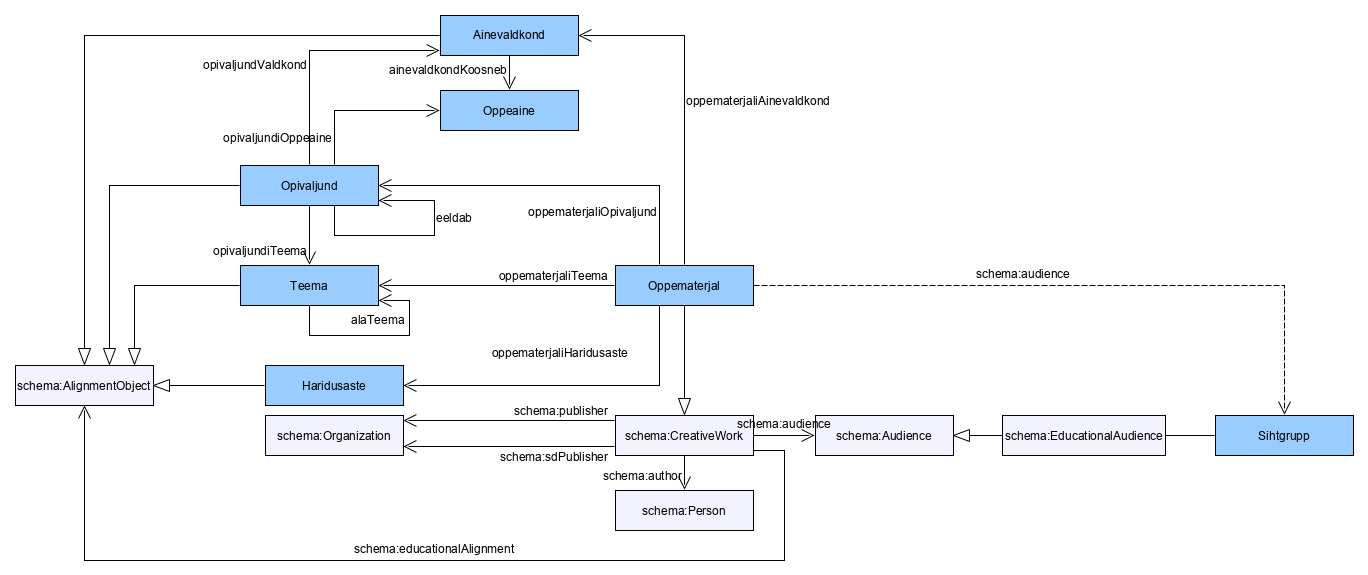
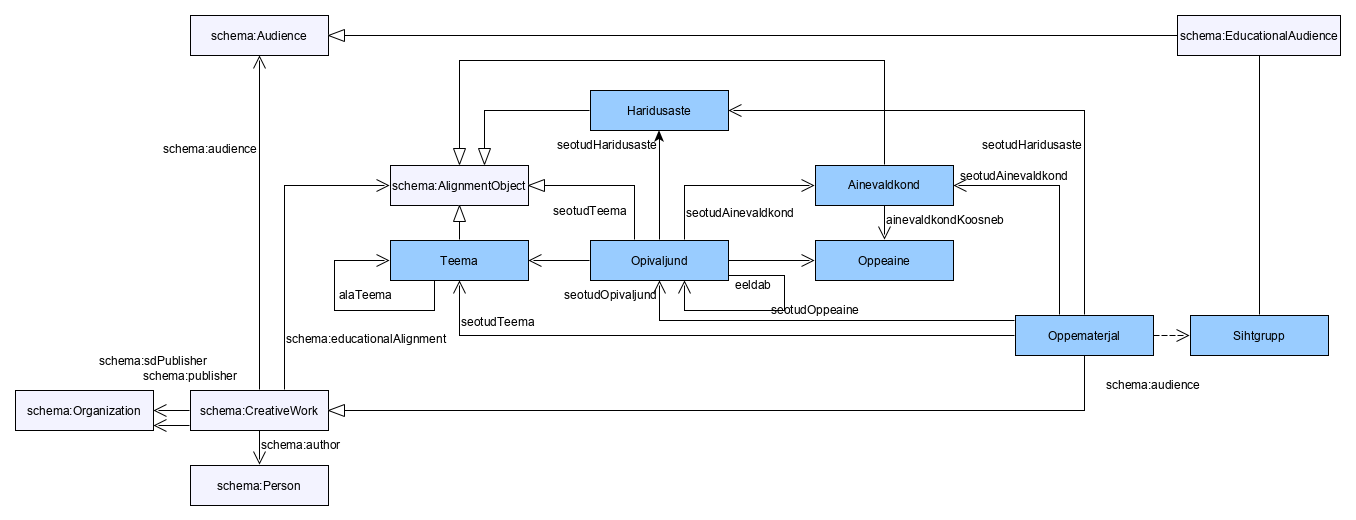
Unified usage of some properties.

diff --git a/ontologies/haridus.html b/ontologies/haridus.html
@@ -103,8 +103,7 @@ j=d.createElement(s),dl=l!='dataLayer'?'&l='+l:'';j.async=true;j.src=
       .historyList { font-size: 0.9em; }
 
       #footer { margin-top: 4em; font-size: 0.8em; font-style: italic; text-align: right; }
-    </style></head>
-	<body>
+    </style></head><body>
 <noscript><iframe src="https://www.googletagmanager.com/ns.html?id=GTM-MZ43MTQ"
 height="0" width="0" style="display:none;visibility:hidden"></iframe></noscript>
 	<h1>Hariduse ontoloogia</h1><dl class="doc-info"><dt>See versioon</dt><dd><a href="https://schema.edu.ee/">https://schema.edu.ee/</a></dd><dt>Värskeim versioon</dt><dd><a href="https://schema.edu.ee/">https://schema.edu.ee/</a></dd></dl><h2 id="toc">Sisukord</h2><ul class="toc"><li><a href="#sec-introduction">Sissejuhatus</a></li><li><a href="#sec-terms">Sõnastiku kokkuvõte</a></li><li><a href="#sec-classes">Klassid</a></li><li><a href="#sec-properties">Omadused</a></li></ul><h2 id="sec-introduction">Sissejuhatus</h2>
@@ -121,7 +120,7 @@ height="0" width="0" style="display:none;visibility:hidden"></iframe></noscript>
       28 klassi
         
       ja
-      16 omadust.
+      14 omadust.
         </p><table><thead><tr><th>Termini nimi</th><th>Liik</th><th>Definitsioon</th></tr></thead><tbody><tr><td><a href="#term-Ainekava" title="https://schema.edu.ee/Ainekava">Ainekava</a></td><td><em>klass</em></td><td>Dokument, mis hõlmab ühe aine õppe-eesmärgid, õppesisu, metoodika ja hindamise põhimõtted.</td></tr><tr><td><a href="#term-Ainevaldkond" title="https://schema.edu.ee/Ainevaldkond">Ainevaldkond</a></td><td><em>klass</em></td><td>Lähedase eesmärgiseade ja õppesisuga õppeained moodustavad ainevaldkonna. Ainevaldkonnad on järgmised:
   1) keel ja kirjandus;
   2) võõrkeeled;
@@ -142,7 +141,7 @@ Kooliastmed on:
 Põhikooli kooliastmed on:
 1) I kooliaste – 1.–3. klass;
 2) II kooliaste – 4.–6. klass;
-3) III kooliaste – 7.–9. klass.</td></tr><tr><td><a href="#term-onEelduseks" title="https://schema.edu.ee/onEelduseks">onEelduseks</a></td><td><em>omadus</em></td><td>Õpiväljund on eelduseks teis(t)ele õpiväljundi(te)le.</td></tr><tr><td><a href="#term-opivaljundiOppeaine" title="https://schema.edu.ee/opivaljundiOppeaine">opivaljundiOppeaine</a></td><td><em>omadus</em></td><td>Õpiväljund ei pea olema seotud ühegi õppeainega ja võib olla seotud mitme õppeainega.</td></tr><tr><td><a href="#term-opivaljundiTeema" title="https://schema.edu.ee/opivaljundiTeema">opivaljundiTeema</a></td><td><em>omadus</em></td><td>Õpiväljund ei pea olema ühegi teemaga, kuid teema raames käsitletakse vähemalt ühte õpiväljundit.</td></tr><tr><td><a href="#term-opivaljundiValdkond" title="https://schema.edu.ee/opivaljundiValdkond">opivaljundiValdkond</a></td><td><em>omadus</em></td><td>Õpiväljundit võidakse kasutada erinevates ainevaldkondades riikliku õppekava kontekstis. Õpiväljund ei pea olema seotud ainevaldkonnaga.</td></tr><tr><td><a href="#term-oppematerjaliAinevaldkond" title="https://schema.edu.ee/oppematerjaliAinevaldkond">oppematerjaliAinevaldkond</a></td><td><em>omadus</em></td><td>Õppematerjal võib olla seotud ainevaldkondadega.</td></tr><tr><td><a href="#term-oppematerjaliHaridusaste" title="https://schema.edu.ee/oppematerjaliHaridusaste">oppematerjaliHaridusaste</a></td><td><em>omadus</em></td><td>Õppematerjal on mõeldud konkreetsele haridusastmele.</td></tr><tr><td><a href="#term-oppematerjaliOpivaljund" title="https://schema.edu.ee/oppematerjaliOpivaljund">oppematerjaliOpivaljund</a></td><td><em>omadus</em></td><td>Õppematerjal on seotud konkreetsete õpiväljundite saavutamisega. Minimaalselt on õppematerjaliga seotud üks õpiväljund.</td></tr><tr><td><a href="#term-oppematerjaliTeema" title="https://schema.edu.ee/oppematerjaliTeema">oppematerjaliTeema</a></td><td><em>omadus</em></td><td>Õppematerjal võib olla seotud teemadega.</td></tr><tr><td><a href="#term-testKoosneb" title="https://schema.edu.ee/testKoosneb">testKoosneb</a></td><td><em>omadus</em></td><td>Test koosneb vähemalt ühest ülesandest.</td></tr><tr><td><a href="#term-ulesanneKoosneb" title="https://schema.edu.ee/ulesanneKoosneb">ulesanneKoosneb</a></td><td><em>omadus</em></td><td>Ülesanne koosneb vähemalt ühest üksikküsimusest.</td></tr><tr><td><a href="#term-vanuseaste" title="https://schema.edu.ee/vanuseaste">vanuseaste</a></td><td><em>omadus</em></td><td>Vanuse teatav alajaotus; selles vanuses inimesed.</td></tr></tbody></table><h2 id="sec-classes">Klassid</h2><div class="class"><h3 id="term-Ainekava">Klass: Ainekava</h3><div class="description"><p class="comment">Dokument, mis hõlmab ühe aine õppe-eesmärgid, õppesisu, metoodika ja hindamise põhimõtted.</p><table class="properties"><tbody><tr><th>URI:</th><td>https://schema.edu.ee/Ainekava</td></tr><tr><th>Pealkiri:</th><td>Ainekava<span class="lang">@et</span></td></tr><tr><th>Ülemklass:</th><td><a href="#term-Oppekava" title="https://schema.edu.ee/Oppekava">https://schema.edu.ee/Oppekava</a></td></tr></tbody></table><h4>Versiooniajalugu</h4><ul class="historyList"><li><span class="date">2020-02-14</span>
+3) III kooliaste – 7.–9. klass.</td></tr><tr><td><a href="#term-onEelduseks" title="https://schema.edu.ee/onEelduseks">onEelduseks</a></td><td><em>omadus</em></td><td>Õpiväljund on eelduseks teis(t)ele õpiväljundi(te)le.</td></tr><tr><td><a href="#term-seotudAinevaldkond" title="https://schema.edu.ee/seotudAinevaldkond">seotudAinevaldkond</a></td><td><em>omadus</em></td><td>Õpiväljundit võidakse kasutada erinevates ainevaldkondades riikliku õppekava kontekstis. Õpiväljund ei pea olema seotud ainevaldkonnaga. Õppematerjal võib olla seotud ainevaldkondadega.</td></tr><tr><td><a href="#term-seotudHaridusaste" title="https://schema.edu.ee/seotudHaridusaste">seotudHaridusaste</a></td><td><em>omadus</em></td><td>Õppematerjal on mõeldud või õpiväljund on planeeritud konkreetsele haridusastmele.</td></tr><tr><td><a href="#term-seotudOpivaljund" title="https://schema.edu.ee/seotudOpivaljund">seotudOpivaljund</a></td><td><em>omadus</em></td><td>Õpiväljundit võidakse kasutada erinevates ainevaldkondades riikliku õppekava kontekstis. Õpiväljund ei pea olema seotud ainevaldkonnaga. Õppematerjal on seotud konkreetsete õpiväljundite saavutamisega. Minimaalselt on õppematerjaliga seotud üks õpiväljund.</td></tr><tr><td><a href="#term-seotudOppeaine" title="https://schema.edu.ee/seotudOppeaine">seotudOppeaine</a></td><td><em>omadus</em></td><td>Õpiväljund ei pea olema seotud ühegi õppeainega ja võib olla seotud mitme õppeainega.</td></tr><tr><td><a href="#term-seotudTeema" title="https://schema.edu.ee/seotudTeema">seotudTeema</a></td><td><em>omadus</em></td><td>Õpiväljund ei pea olema ühegi teemaga, kuid teema raames käsitletakse vähemalt ühte õpiväljundit. Õppematerjal võib olla seotud teemadega.</td></tr><tr><td><a href="#term-testKoosneb" title="https://schema.edu.ee/testKoosneb">testKoosneb</a></td><td><em>omadus</em></td><td>Test koosneb vähemalt ühest ülesandest.</td></tr><tr><td><a href="#term-ulesanneKoosneb" title="https://schema.edu.ee/ulesanneKoosneb">ulesanneKoosneb</a></td><td><em>omadus</em></td><td>Ülesanne koosneb vähemalt ühest üksikküsimusest.</td></tr><tr><td><a href="#term-vanuseaste" title="https://schema.edu.ee/vanuseaste">vanuseaste</a></td><td><em>omadus</em></td><td>Vanuse teatav alajaotus; selles vanuses inimesed.</td></tr></tbody></table><h2 id="sec-classes">Klassid</h2><div class="class"><h3 id="term-Ainekava">Klass: Ainekava</h3><div class="description"><p class="comment">Dokument, mis hõlmab ühe aine õppe-eesmärgid, õppesisu, metoodika ja hindamise põhimõtted.</p><table class="properties"><tbody><tr><th>URI:</th><td>https://schema.edu.ee/Ainekava</td></tr><tr><th>Pealkiri:</th><td>Ainekava<span class="lang">@et</span></td></tr><tr><th>Ülemklass:</th><td><a href="#term-Oppekava" title="https://schema.edu.ee/Oppekava">https://schema.edu.ee/Oppekava</a></td></tr></tbody></table><h4>Versiooniajalugu</h4><ul class="historyList"><li><span class="date">2020-02-14</span>
               - esmakordselt lisatud
             </li></ul></div></div><div class="class"><h3 id="term-Ainevaldkond">Klass: Ainevaldkond</h3><div class="description"><p class="comment">Lähedase eesmärgiseade ja õppesisuga õppeained moodustavad ainevaldkonna. Ainevaldkonnad on järgmised:
   1) keel ja kirjandus;
@@ -153,11 +152,11 @@ Põhikooli kooliastmed on:
   6) kunstiained;
   7) kehaline kasvatus.
 
-Ainevaldkonna õppeainete õpetamise peamine eesmärk on vastava valdkonnapädevuse kujundamine. Valdkonnapädevuste kujunemist ning gümnaasiumi õppe- ja kasvatuseesmärkide saavutamist toetavad ainekavades esitatud õpitulemused, lõiming teiste ainevaldkondade õppeainetega ning tunni- ja kooliväline tegevus. NB alignmentType = educationalSubjectArea.</p><table class="properties"><tbody><tr><th>URI:</th><td>https://schema.edu.ee/Ainevaldkond</td></tr><tr><th>Pealkiri:</th><td>Ainevaldkond<span class="lang">@et</span> ja Subject area<span class="lang">@en</span></td></tr><tr><th>Omadused:</th><td><a href="#term-ainevaldkondKoosneb" title="https://schema.edu.ee/ainevaldkondKoosneb">https://schema.edu.ee/ainevaldkondKoosneb</a></td></tr><tr><th>Kasutatud:</th><td><a href="#term-opivaljundiValdkond" title="https://schema.edu.ee/opivaljundiValdkond">https://schema.edu.ee/opivaljundiValdkond</a> ja <a href="#term-oppematerjaliAinevaldkond" title="https://schema.edu.ee/oppematerjaliAinevaldkond">https://schema.edu.ee/oppematerjaliAinevaldkond</a></td></tr><tr><th>Ülemklass:</th><td><a href="https://schema.org/AlignmentObject">https://schema.org/AlignmentObject</a></td></tr></tbody></table><h4>Versiooniajalugu</h4><ul class="historyList"><li><span class="date">2020-02-14</span>
+Ainevaldkonna õppeainete õpetamise peamine eesmärk on vastava valdkonnapädevuse kujundamine. Valdkonnapädevuste kujunemist ning gümnaasiumi õppe- ja kasvatuseesmärkide saavutamist toetavad ainekavades esitatud õpitulemused, lõiming teiste ainevaldkondade õppeainetega ning tunni- ja kooliväline tegevus. NB alignmentType = educationalSubjectArea.</p><table class="properties"><tbody><tr><th>URI:</th><td>https://schema.edu.ee/Ainevaldkond</td></tr><tr><th>Pealkiri:</th><td>Ainevaldkond<span class="lang">@et</span> ja Subject area<span class="lang">@en</span></td></tr><tr><th>Omadused:</th><td><a href="#term-ainevaldkondKoosneb" title="https://schema.edu.ee/ainevaldkondKoosneb">https://schema.edu.ee/ainevaldkondKoosneb</a></td></tr><tr><th>Kasutatud:</th><td><a href="#term-seotudAinevaldkond" title="https://schema.edu.ee/seotudAinevaldkond">https://schema.edu.ee/seotudAinevaldkond</a></td></tr><tr><th>Ülemklass:</th><td><a href="https://schema.org/AlignmentObject">https://schema.org/AlignmentObject</a></td></tr></tbody></table><h4>Versiooniajalugu</h4><ul class="historyList"><li><span class="date">2020-02-14</span>
               - esmakordselt lisatud
             </li></ul></div></div><div class="class"><h3 id="term-AinevaldkonnaPadevus">Klass: AinevaldkonnaPadevus</h3><div class="description"><table class="properties"><tbody><tr><th>URI:</th><td>https://schema.edu.ee/AinevaldkonnaPadevus</td></tr><tr><th>Pealkiri:</th><td>Ainevaldkonna pädevus<span class="lang">@et</span></td></tr><tr><th>Ülemklass:</th><td><a href="#term-Padevus" title="https://schema.edu.ee/Padevus">https://schema.edu.ee/Padevus</a></td></tr></tbody></table><h4>Versiooniajalugu</h4><ul class="historyList"><li><span class="date">2020-02-14</span>
               - esmakordselt lisatud
-            </li></ul></div></div><div class="class"><h3 id="term-Haridusaste">Klass: Haridusaste</h3><div class="description"><p class="comment">Hariduse omandamise järjestikune osa, selle iga (järgnev) osa (nt põhiharidus, keskharidus, kõrgharidus). NB alignmentType = educationalLevel.</p><table class="properties"><tbody><tr><th>URI:</th><td>https://schema.edu.ee/Haridusaste</td></tr><tr><th>Pealkiri:</th><td>Haridusaste<span class="lang">@et</span></td></tr><tr><th>Kasutatud:</th><td><a href="#term-oppematerjaliHaridusaste" title="https://schema.edu.ee/oppematerjaliHaridusaste">https://schema.edu.ee/oppematerjaliHaridusaste</a></td></tr><tr><th>Ülemklass:</th><td><a href="https://schema.org/AlignmentObject">https://schema.org/AlignmentObject</a></td></tr></tbody></table><h4>Versiooniajalugu</h4><ul class="historyList"><li><span class="date">2020-02-20</span>
+            </li></ul></div></div><div class="class"><h3 id="term-Haridusaste">Klass: Haridusaste</h3><div class="description"><p class="comment">Hariduse omandamise järjestikune osa, selle iga (järgnev) osa (nt põhiharidus, keskharidus, kõrgharidus). NB alignmentType = educationalLevel.</p><table class="properties"><tbody><tr><th>URI:</th><td>https://schema.edu.ee/Haridusaste</td></tr><tr><th>Pealkiri:</th><td>Haridusaste<span class="lang">@et</span></td></tr><tr><th>Kasutatud:</th><td><a href="#term-seotudHaridusaste" title="https://schema.edu.ee/seotudHaridusaste">https://schema.edu.ee/seotudHaridusaste</a></td></tr><tr><th>Ülemklass:</th><td><a href="https://schema.org/AlignmentObject">https://schema.org/AlignmentObject</a></td></tr></tbody></table><h4>Versiooniajalugu</h4><ul class="historyList"><li><span class="date">2020-02-20</span>
               - esmakordselt lisatud
             </li></ul></div></div><div class="class"><h3 id="term-Hoiak">Klass: Hoiak</h3><div class="description"><p class="comment">Inimese kalduvus hinnata objektide (näit. isikute, sündmuste, nähtuste) olemust teatud määral soosival või mittesoosival viisil. See hinnang väljendub tavaliselt tunnetusliku (kognitiivse), emotsionaalse (afektiivse) või käitumusliku (konatiivse) reageeringuna.</p><table class="properties"><tbody><tr><th>URI:</th><td>https://schema.edu.ee/Hoiak</td></tr><tr><th>Pealkiri:</th><td>Attitude<span class="lang">@en</span> ja Hoiak<span class="lang">@et</span></td></tr><tr><th>Ülemklass:</th><td><a href="#term-Opivaljund" title="https://schema.edu.ee/Opivaljund">https://schema.edu.ee/Opivaljund</a></td></tr></tbody></table><h4>Versiooniajalugu</h4><ul class="historyList"><li><span class="date">2020-02-14</span>
               - esmakordselt lisatud
@@ -175,15 +174,15 @@ Ainevaldkonna õppeainete õpetamise peamine eesmärk on vastava valdkonnapädev
               - esmakordselt lisatud
             </li></ul></div></div><div class="class"><h3 id="term-Opitulemus">Klass: Opitulemus</h3><div class="description"><p class="comment">Kellegi teadmistele, oskustele, võimetele, töötulemustele antud hinnang, mida väljendatakse numbrites, tähtedes, punktides vm hindamisühikutes. Lihtsustatult, õpitulemus esitab õpiväljundi saavutatuse taset. Eksami või arvestuse sooritus.</p><table class="properties"><tbody><tr><th>URI:</th><td>https://schema.edu.ee/Opitulemus</td></tr><tr><th>Pealkiri:</th><td>Learning assessment<span class="lang">@en</span> ja Õpitulemus<span class="lang">@et</span></td></tr><tr><th>Kasutatud:</th><td><a href="#term-hindabOpitulemust" title="https://schema.edu.ee/hindabOpitulemust">https://schema.edu.ee/hindabOpitulemust</a></td></tr></tbody></table><h4>Versiooniajalugu</h4><ul class="historyList"><li><span class="date">2020-02-14</span>
               - esmakordselt lisatud
-            </li></ul></div></div><div class="class"><h3 id="term-Opivaljund">Klass: Opivaljund</h3><div class="description"><p class="comment">Õppimise tulemusena omandatavad teadmised, oskused ja hoiakud või nende kogumid (pädevused), mille olemasolu ja/või saavutatuse taset on võimalik tõendada ja hinnata. Nt "oskab liita 10 piires". NB alignmentType = teaches.</p><table class="properties"><tbody><tr><th>URI:</th><td>https://schema.edu.ee/Opivaljund</td></tr><tr><th>Pealkiri:</th><td>Learning outcome<span class="lang">@en</span> ja Õpiväljund<span class="lang">@et</span></td></tr><tr><th>Omadused:</th><td><a href="#term-opivaljundiOppeaine" title="https://schema.edu.ee/opivaljundiOppeaine">https://schema.edu.ee/opivaljundiOppeaine</a>, <a href="#term-opivaljundiTeema" title="https://schema.edu.ee/opivaljundiTeema">https://schema.edu.ee/opivaljundiTeema</a>, <a href="#term-opivaljundiValdkond" title="https://schema.edu.ee/opivaljundiValdkond">https://schema.edu.ee/opivaljundiValdkond</a>, <a href="#term-onEelduseks" title="https://schema.edu.ee/onEelduseks">https://schema.edu.ee/onEelduseks</a> ja <a href="#term-eeldab" title="https://schema.edu.ee/eeldab">https://schema.edu.ee/eeldab</a></td></tr><tr><th>Kasutatud:</th><td><a href="#term-onEelduseks" title="https://schema.edu.ee/onEelduseks">https://schema.edu.ee/onEelduseks</a>, <a href="#term-eeldab" title="https://schema.edu.ee/eeldab">https://schema.edu.ee/eeldab</a> ja <a href="#term-oppematerjaliOpivaljund" title="https://schema.edu.ee/oppematerjaliOpivaljund">https://schema.edu.ee/oppematerjaliOpivaljund</a></td></tr><tr><th>Ülemklass:</th><td><a href="https://schema.org/AlignmentObject">https://schema.org/AlignmentObject</a></td></tr></tbody></table><h4>Versiooniajalugu</h4><ul class="historyList"><li><span class="date">2020-02-14</span>
+            </li></ul></div></div><div class="class"><h3 id="term-Opivaljund">Klass: Opivaljund</h3><div class="description"><p class="comment">Õppimise tulemusena omandatavad teadmised, oskused ja hoiakud või nende kogumid (pädevused), mille olemasolu ja/või saavutatuse taset on võimalik tõendada ja hinnata. Nt "oskab liita 10 piires". NB alignmentType = teaches.</p><table class="properties"><tbody><tr><th>URI:</th><td>https://schema.edu.ee/Opivaljund</td></tr><tr><th>Pealkiri:</th><td>Learning outcome<span class="lang">@en</span> ja Õpiväljund<span class="lang">@et</span></td></tr><tr><th>Omadused:</th><td><a href="#term-onEelduseks" title="https://schema.edu.ee/onEelduseks">https://schema.edu.ee/onEelduseks</a> ja <a href="#term-eeldab" title="https://schema.edu.ee/eeldab">https://schema.edu.ee/eeldab</a></td></tr><tr><th>Kasutatud:</th><td><a href="#term-seotudOpivaljund" title="https://schema.edu.ee/seotudOpivaljund">https://schema.edu.ee/seotudOpivaljund</a>, <a href="#term-onEelduseks" title="https://schema.edu.ee/onEelduseks">https://schema.edu.ee/onEelduseks</a> ja <a href="#term-eeldab" title="https://schema.edu.ee/eeldab">https://schema.edu.ee/eeldab</a></td></tr><tr><th>Ülemklass:</th><td><a href="https://schema.org/AlignmentObject">https://schema.org/AlignmentObject</a></td></tr></tbody></table><h4>Versiooniajalugu</h4><ul class="historyList"><li><span class="date">2020-02-14</span>
               - esmakordselt lisatud
-            </li></ul></div></div><div class="class"><h3 id="term-Oppeaine">Klass: Oppeaine</h3><div class="description"><p class="comment">Õppeasutuses õpetatav teadus-, tehnika-, kunsti- vm ala.</p><table class="properties"><tbody><tr><th>URI:</th><td>https://schema.edu.ee/Oppeaine</td></tr><tr><th>Pealkiri:</th><td>Subject<span class="lang">@en</span> ja Õppeaine<span class="lang">@et</span></td></tr><tr><th>Kasutatud:</th><td><a href="#term-opivaljundiOppeaine" title="https://schema.edu.ee/opivaljundiOppeaine">https://schema.edu.ee/opivaljundiOppeaine</a> ja <a href="#term-ainevaldkondKoosneb" title="https://schema.edu.ee/ainevaldkondKoosneb">https://schema.edu.ee/ainevaldkondKoosneb</a></td></tr></tbody></table><h4>Versiooniajalugu</h4><ul class="historyList"><li><span class="date">2020-02-14</span>
+            </li></ul></div></div><div class="class"><h3 id="term-Oppeaine">Klass: Oppeaine</h3><div class="description"><p class="comment">Õppeasutuses õpetatav teadus-, tehnika-, kunsti- vm ala.</p><table class="properties"><tbody><tr><th>URI:</th><td>https://schema.edu.ee/Oppeaine</td></tr><tr><th>Pealkiri:</th><td>Subject<span class="lang">@en</span> ja Õppeaine<span class="lang">@et</span></td></tr><tr><th>Kasutatud:</th><td><a href="#term-seotudOppeaine" title="https://schema.edu.ee/seotudOppeaine">https://schema.edu.ee/seotudOppeaine</a> ja <a href="#term-ainevaldkondKoosneb" title="https://schema.edu.ee/ainevaldkondKoosneb">https://schema.edu.ee/ainevaldkondKoosneb</a></td></tr></tbody></table><h4>Versiooniajalugu</h4><ul class="historyList"><li><span class="date">2020-02-14</span>
               - esmakordselt lisatud
             </li></ul></div></div><div class="class"><h3 id="term-OppeasutuseOppekava">Klass: OppeasutuseOppekava</h3><div class="description"><p class="comment">Õppeasutuse õppekava on õppe- ja kasvatustegevuse alusdokument, milles kirjeldatakse õppe rõhuasetused ja tegevused õppekava täitmiseks.</p><table class="properties"><tbody><tr><th>URI:</th><td>https://schema.edu.ee/OppeasutuseOppekava</td></tr><tr><th>Pealkiri:</th><td>Õppeasutuse õppekava<span class="lang">@et</span></td></tr><tr><th>Ülemklass:</th><td><a href="#term-Oppekava" title="https://schema.edu.ee/Oppekava">https://schema.edu.ee/Oppekava</a></td></tr></tbody></table><h4>Versiooniajalugu</h4><ul class="historyList"><li><span class="date">2020-02-14</span>
               - esmakordselt lisatud
             </li></ul></div></div><div class="class"><h3 id="term-Oppekava">Klass: Oppekava</h3><div class="description"><p class="comment">Õppe ja kasvatuse alusdokument, mis määrab õppe- ja kasvatuseesmärgid, õppe sisu ja mahu, metoodika põhimõtted ning hindamise alused, nõuded õppekeskkonnale vms.</p><table class="properties"><tbody><tr><th>URI:</th><td>https://schema.edu.ee/Oppekava</td></tr><tr><th>Pealkiri:</th><td>Curriculum<span class="lang">@en</span> ja Õppekava<span class="lang">@et</span></td></tr></tbody></table><h4>Versiooniajalugu</h4><ul class="historyList"><li><span class="date">2020-02-14</span>
               - esmakordselt lisatud
-            </li></ul></div></div><div class="class"><h3 id="term-Oppematerjal">Klass: Oppematerjal</h3><div class="description"><p class="comment">Nii digitaalsel kui muul kujul õppematerjal. Digitaalsel kujul avaldatud õppematerjal on nt: e-õpik, õpiotstarbeline veebivideo ja mobiilirakendus, õpimäng, e-tööleht, veebipõhine test, õpiobjekt.</p><table class="properties"><tbody><tr><th>URI:</th><td>https://schema.edu.ee/Oppematerjal</td></tr><tr><th>Pealkiri:</th><td>Learning material<span class="lang">@en</span> ja Õppematerjal<span class="lang">@et</span></td></tr><tr><th>Omadused:</th><td><a href="#term-oppematerjaliOpivaljund" title="https://schema.edu.ee/oppematerjaliOpivaljund">https://schema.edu.ee/oppematerjaliOpivaljund</a>, <a href="#term-oppematerjaliTeema" title="https://schema.edu.ee/oppematerjaliTeema">https://schema.edu.ee/oppematerjaliTeema</a>, <a href="#term-oppematerjaliAinevaldkond" title="https://schema.edu.ee/oppematerjaliAinevaldkond">https://schema.edu.ee/oppematerjaliAinevaldkond</a> ja <a href="#term-oppematerjaliHaridusaste" title="https://schema.edu.ee/oppematerjaliHaridusaste">https://schema.edu.ee/oppematerjaliHaridusaste</a></td></tr><tr><th>Ülemklass:</th><td><a href="https://schema.org/CreativeWork">https://schema.org/CreativeWork</a></td></tr></tbody></table><h4>Versiooniajalugu</h4><ul class="historyList"><li><span class="date">2020-02-14</span>
+            </li></ul></div></div><div class="class"><h3 id="term-Oppematerjal">Klass: Oppematerjal</h3><div class="description"><p class="comment">Nii digitaalsel kui muul kujul õppematerjal. Digitaalsel kujul avaldatud õppematerjal on nt: e-õpik, õpiotstarbeline veebivideo ja mobiilirakendus, õpimäng, e-tööleht, veebipõhine test, õpiobjekt.</p><table class="properties"><tbody><tr><th>URI:</th><td>https://schema.edu.ee/Oppematerjal</td></tr><tr><th>Pealkiri:</th><td>Learning material<span class="lang">@en</span> ja Õppematerjal<span class="lang">@et</span></td></tr><tr><th>Ülemklass:</th><td><a href="https://schema.org/CreativeWork">https://schema.org/CreativeWork</a></td></tr></tbody></table><h4>Versiooniajalugu</h4><ul class="historyList"><li><span class="date">2020-02-14</span>
               - esmakordselt lisatud
             </li></ul></div></div><div class="class"><h3 id="term-Oskus">Klass: Oskus</h3><div class="description"><p class="comment">Võime rakendada teadmisi ja kasutada neid ülesannete täitmisel ja probleemide lahendamisel.</p><table class="properties"><tbody><tr><th>URI:</th><td>https://schema.edu.ee/Oskus</td></tr><tr><th>Pealkiri:</th><td>Oskus<span class="lang">@et</span> ja Skill<span class="lang">@en</span></td></tr><tr><th>Ülemklass:</th><td><a href="#term-Opivaljund" title="https://schema.edu.ee/Opivaljund">https://schema.edu.ee/Opivaljund</a></td></tr></tbody></table><h4>Versiooniajalugu</h4><ul class="historyList"><li><span class="date">2020-02-14</span>
               - esmakordselt lisatud
@@ -197,7 +196,7 @@ Ainevaldkonna õppeainete õpetamise peamine eesmärk on vastava valdkonnapädev
               - esmakordselt lisatud
             </li></ul></div></div><div class="class"><h3 id="term-Teadmine">Klass: Teadmine</h3><div class="description"><p class="comment">Õpingutega või kogemustest omandatud faktide, reeglite, seaduspärasuste jms tundmine.</p><table class="properties"><tbody><tr><th>URI:</th><td>https://schema.edu.ee/Teadmine</td></tr><tr><th>Pealkiri:</th><td>Knowledge<span class="lang">@en</span> ja Teadmine<span class="lang">@et</span></td></tr><tr><th>Ülemklass:</th><td><a href="#term-Opivaljund" title="https://schema.edu.ee/Opivaljund">https://schema.edu.ee/Opivaljund</a></td></tr></tbody></table><h4>Versiooniajalugu</h4><ul class="historyList"><li><span class="date">2020-02-14</span>
               - esmakordselt lisatud
-            </li></ul></div></div><div class="class"><h3 id="term-Teema">Klass: Teema</h3><div class="description"><p class="comment">Aine sisuühik, mida õpetatakse a'la "2. maailmasõda ajaloos" või "Geomeetria". Teemad on kasutusel õppematerjalide lõimimiseks. NB alignmentType = educationalSubject.</p><table class="properties"><tbody><tr><th>URI:</th><td>https://schema.edu.ee/Teema</td></tr><tr><th>Pealkiri:</th><td>Teema<span class="lang">@et</span> ja Topic<span class="lang">@en</span></td></tr><tr><th>Omadused:</th><td><a href="#term-alateema" title="https://schema.edu.ee/alateema">https://schema.edu.ee/alateema</a></td></tr><tr><th>Kasutatud:</th><td><a href="#term-opivaljundiTeema" title="https://schema.edu.ee/opivaljundiTeema">https://schema.edu.ee/opivaljundiTeema</a>, <a href="#term-oppematerjaliTeema" title="https://schema.edu.ee/oppematerjaliTeema">https://schema.edu.ee/oppematerjaliTeema</a> ja <a href="#term-alateema" title="https://schema.edu.ee/alateema">https://schema.edu.ee/alateema</a></td></tr><tr><th>Ülemklass:</th><td><a href="https://schema.org/AlignmentObject">https://schema.org/AlignmentObject</a></td></tr></tbody></table><h4>Versiooniajalugu</h4><ul class="historyList"><li><span class="date">2020-02-14</span>
+            </li></ul></div></div><div class="class"><h3 id="term-Teema">Klass: Teema</h3><div class="description"><p class="comment">Aine sisuühik, mida õpetatakse a'la "2. maailmasõda ajaloos" või "Geomeetria". Teemad on kasutusel õppematerjalide lõimimiseks. NB alignmentType = educationalSubject.</p><table class="properties"><tbody><tr><th>URI:</th><td>https://schema.edu.ee/Teema</td></tr><tr><th>Pealkiri:</th><td>Teema<span class="lang">@et</span> ja Topic<span class="lang">@en</span></td></tr><tr><th>Omadused:</th><td><a href="#term-alateema" title="https://schema.edu.ee/alateema">https://schema.edu.ee/alateema</a></td></tr><tr><th>Kasutatud:</th><td><a href="#term-seotudTeema" title="https://schema.edu.ee/seotudTeema">https://schema.edu.ee/seotudTeema</a> ja <a href="#term-alateema" title="https://schema.edu.ee/alateema">https://schema.edu.ee/alateema</a></td></tr><tr><th>Ülemklass:</th><td><a href="https://schema.org/AlignmentObject">https://schema.org/AlignmentObject</a></td></tr></tbody></table><h4>Versiooniajalugu</h4><ul class="historyList"><li><span class="date">2020-02-14</span>
               - esmakordselt lisatud
             </li></ul></div></div><div class="class"><h3 id="term-Test">Klass: Test</h3><div class="description"><p class="comment">Hindamisvahend kokkulepitud eesmärgi hindamiseks. Nt ülesannete kogum; standardiseeritud ülesannete või küsimuste kogum, millega uuritakse ja hinnatakse inimese võimeid ja omadusi või teadmisi ja oskusi.</p><table class="properties"><tbody><tr><th>URI:</th><td>https://schema.edu.ee/Test</td></tr><tr><th>Pealkiri:</th><td>Test<span class="lang">@en</span> ja Test<span class="lang">@et</span></td></tr><tr><th>Omadused:</th><td><a href="#term-hindabOpitulemust" title="https://schema.edu.ee/hindabOpitulemust">https://schema.edu.ee/hindabOpitulemust</a> ja <a href="#term-testKoosneb" title="https://schema.edu.ee/testKoosneb">https://schema.edu.ee/testKoosneb</a></td></tr><tr><th>Ülemklass:</th><td><a href="#term-Oppematerjal" title="https://schema.edu.ee/Oppematerjal">https://schema.edu.ee/Oppematerjal</a></td></tr></tbody></table><h4>Versiooniajalugu</h4><ul class="historyList"><li><span class="date">2020-02-14</span>
               - esmakordselt lisatud
@@ -230,19 +229,40 @@ Põhikooli kooliastmed on:
               - esmakordselt lisatud
             </li></ul></div></div><div class="property"><h3 id="term-onEelduseks">Omadus: onEelduseks</h3><div class="description"><p class="comment">Õpiväljund on eelduseks teis(t)ele õpiväljundi(te)le.</p><table class="properties"><tbody><tr><th>URI:</th><td>https://schema.edu.ee/onEelduseks</td></tr><tr><th>Pealkiri:</th><td>Õpiväljund on eelduseks<span class="lang">@et</span></td></tr><tr><th>Domeen:</th><td><a href="#term-Opivaljund" title="https://schema.edu.ee/Opivaljund">https://schema.edu.ee/Opivaljund</a></td></tr><tr><th>Ulatus:</th><td><a href="#term-Opivaljund" title="https://schema.edu.ee/Opivaljund">https://schema.edu.ee/Opivaljund</a></td></tr><tr><th>Pöördomadus:</th><td><a href="https://schema.edu.ee/opivaljundEeldab">https://schema.edu.ee/opivaljundEeldab</a></td></tr></tbody></table><h4>Versiooniajalugu</h4><ul class="historyList"><li><span class="date">2020-02-14</span>
               - esmakordselt lisatud
-            </li></ul></div></div><div class="property"><h3 id="term-opivaljundiOppeaine">Omadus: opivaljundiOppeaine</h3><div class="description"><p class="comment">Õpiväljund ei pea olema seotud ühegi õppeainega ja võib olla seotud mitme õppeainega.</p><table class="properties"><tbody><tr><th>URI:</th><td>https://schema.edu.ee/opivaljundiOppeaine</td></tr><tr><th>Pealkiri:</th><td>Õppeaine, mille raames õpiväljundit käsitletekse<span class="lang">@et</span></td></tr><tr><th>Domeen:</th><td><a href="#term-Opivaljund" title="https://schema.edu.ee/Opivaljund">https://schema.edu.ee/Opivaljund</a></td></tr><tr><th>Ulatus:</th><td><a href="#term-Oppeaine" title="https://schema.edu.ee/Oppeaine">https://schema.edu.ee/Oppeaine</a></td></tr></tbody></table><h4>Versiooniajalugu</h4><ul class="historyList"><li><span class="date">2020-02-14</span>
+            </li></ul></div></div><div class="property"><h3 id="term-seotudAinevaldkond">Omadus: seotudAinevaldkond</h3><div class="description"><p class="comment">Õpiväljundit võidakse kasutada erinevates ainevaldkondades riikliku õppekava kontekstis. Õpiväljund ei pea olema seotud ainevaldkonnaga. Õppematerjal võib olla seotud ainevaldkondadega.</p><table class="properties"><tbody><tr><th>URI:</th><td>https://schema.edu.ee/seotudAinevaldkond</td></tr><tr><th>Pealkiri:</th><td>Ainevaldkond, mille raames õpiväljundit või õppematerjali käsitletakse<span class="lang">@et</span></td></tr><tr><th>Domeen:</th><td>Ühend, mis sisaldab     
+				
+					<a href="#Opivaljund">#Opivaljund</a>
+					 või <a href="#Oppematerjal">#Oppematerjal</a>
+				
+			</td></tr><tr><th>Ulatus:</th><td><a href="#term-Ainevaldkond" title="https://schema.edu.ee/Ainevaldkond">https://schema.edu.ee/Ainevaldkond</a></td></tr></tbody></table><h4>Versiooniajalugu</h4><ul class="historyList"><li><span class="date">2020-02-14</span>
               - esmakordselt lisatud
-            </li></ul></div></div><div class="property"><h3 id="term-opivaljundiTeema">Omadus: opivaljundiTeema</h3><div class="description"><p class="comment">Õpiväljund ei pea olema ühegi teemaga, kuid teema raames käsitletakse vähemalt ühte õpiväljundit.</p><table class="properties"><tbody><tr><th>URI:</th><td>https://schema.edu.ee/opivaljundiTeema</td></tr><tr><th>Pealkiri:</th><td>Teema, mille raames õpiväljundit käsitletakse<span class="lang">@et</span></td></tr><tr><th>Domeen:</th><td><a href="#term-Opivaljund" title="https://schema.edu.ee/Opivaljund">https://schema.edu.ee/Opivaljund</a></td></tr><tr><th>Ulatus:</th><td><a href="#term-Teema" title="https://schema.edu.ee/Teema">https://schema.edu.ee/Teema</a></td></tr></tbody></table><h4>Versiooniajalugu</h4><ul class="historyList"><li><span class="date">2020-02-14</span>
+            </li></ul></div></div><div class="property"><h3 id="term-seotudHaridusaste">Omadus: seotudHaridusaste</h3><div class="description"><p class="comment">Õppematerjal on mõeldud või õpiväljund on planeeritud konkreetsele haridusastmele.</p><table class="properties"><tbody><tr><th>URI:</th><td>https://schema.edu.ee/seotudHaridusaste</td></tr><tr><th>Pealkiri:</th><td>Õppematerjali või õpiväljundiga seotud haridusaste<span class="lang">@et</span></td></tr><tr><th>Domeen:</th><td>Ühend, mis sisaldab     
+				
+					<a href="#Opivaljund">#Opivaljund</a>
+					 või <a href="#Oppematerjal">#Oppematerjal</a>
+				
+			</td></tr><tr><th>Ulatus:</th><td><a href="#term-Haridusaste" title="https://schema.edu.ee/Haridusaste">https://schema.edu.ee/Haridusaste</a></td></tr><tr><th>Ülemomadus:</th><td><a href="https://schema.org/educationalAlignment">https://schema.org/educationalAlignment</a></td></tr></tbody></table><h4>Versiooniajalugu</h4><ul class="historyList"><li><span class="date">2020-02-20</span>
               - esmakordselt lisatud
-            </li></ul></div></div><div class="property"><h3 id="term-opivaljundiValdkond">Omadus: opivaljundiValdkond</h3><div class="description"><p class="comment">Õpiväljundit võidakse kasutada erinevates ainevaldkondades riikliku õppekava kontekstis. Õpiväljund ei pea olema seotud ainevaldkonnaga.</p><table class="properties"><tbody><tr><th>URI:</th><td>https://schema.edu.ee/opivaljundiValdkond</td></tr><tr><th>Pealkiri:</th><td>Ainevaldkond, mille raames õpiväljundit käsitletakse<span class="lang">@et</span></td></tr><tr><th>Domeen:</th><td><a href="#term-Opivaljund" title="https://schema.edu.ee/Opivaljund">https://schema.edu.ee/Opivaljund</a></td></tr><tr><th>Ulatus:</th><td><a href="#term-Ainevaldkond" title="https://schema.edu.ee/Ainevaldkond">https://schema.edu.ee/Ainevaldkond</a></td></tr></tbody></table><h4>Versiooniajalugu</h4><ul class="historyList"><li><span class="date">2020-02-14</span>
+            </li></ul></div></div><div class="property"><h3 id="term-seotudOpivaljund">Omadus: seotudOpivaljund</h3><div class="description"><p class="comment">Õpiväljundit võidakse kasutada erinevates ainevaldkondades riikliku õppekava kontekstis. Õpiväljund ei pea olema seotud ainevaldkonnaga. Õppematerjal on seotud konkreetsete õpiväljundite saavutamisega. Minimaalselt on õppematerjaliga seotud üks õpiväljund.</p><table class="properties"><tbody><tr><th>URI:</th><td>https://schema.edu.ee/seotudOpivaljund</td></tr><tr><th>Pealkiri:</th><td>Teemaga või õppematerjaliga seotud õpiväljund<span class="lang">@et</span></td></tr><tr><th>Domeen:</th><td>Ühend, mis sisaldab     
+				
+					<a href="#Opivaljund">#Opivaljund</a>
+					 või <a href="#Oppematerjal">#Oppematerjal</a>
+				
+			</td></tr><tr><th>Ulatus:</th><td><a href="#term-Opivaljund" title="https://schema.edu.ee/Opivaljund">https://schema.edu.ee/Opivaljund</a></td></tr></tbody></table><h4>Versiooniajalugu</h4><ul class="historyList"><li><span class="date">2020-02-14</span>
               - esmakordselt lisatud
-            </li></ul></div></div><div class="property"><h3 id="term-oppematerjaliAinevaldkond">Omadus: oppematerjaliAinevaldkond</h3><div class="description"><p class="comment">Õppematerjal võib olla seotud ainevaldkondadega.</p><table class="properties"><tbody><tr><th>URI:</th><td>https://schema.edu.ee/oppematerjaliAinevaldkond</td></tr><tr><th>Pealkiri:</th><td>Õppematerjali ainevaldkond<span class="lang">@et</span></td></tr><tr><th>Domeen:</th><td><a href="#term-Oppematerjal" title="https://schema.edu.ee/Oppematerjal">https://schema.edu.ee/Oppematerjal</a></td></tr><tr><th>Ulatus:</th><td><a href="#term-Ainevaldkond" title="https://schema.edu.ee/Ainevaldkond">https://schema.edu.ee/Ainevaldkond</a></td></tr><tr><th>Ülemomadus:</th><td><a href="https://schema.org/educationalAlignment">https://schema.org/educationalAlignment</a></td></tr></tbody></table><h4>Versiooniajalugu</h4><ul class="historyList"><li><span class="date">2020-02-20</span>
+            </li></ul></div></div><div class="property"><h3 id="term-seotudOppeaine">Omadus: seotudOppeaine</h3><div class="description"><p class="comment">Õpiväljund ei pea olema seotud ühegi õppeainega ja võib olla seotud mitme õppeainega.</p><table class="properties"><tbody><tr><th>URI:</th><td>https://schema.edu.ee/seotudOppeaine</td></tr><tr><th>Pealkiri:</th><td>Õppeaine, mille raames õpiväljundit või teemat käsitletekse<span class="lang">@et</span></td></tr><tr><th>Domeen:</th><td>Ühend, mis sisaldab     
+				
+					<a href="#Opivaljund">#Opivaljund</a>
+					 või <a href="#Oppematerjal">#Oppematerjal</a>
+				
+			</td></tr><tr><th>Ulatus:</th><td><a href="#term-Oppeaine" title="https://schema.edu.ee/Oppeaine">https://schema.edu.ee/Oppeaine</a></td></tr></tbody></table><h4>Versiooniajalugu</h4><ul class="historyList"><li><span class="date">2020-02-14</span>
               - esmakordselt lisatud
-            </li></ul></div></div><div class="property"><h3 id="term-oppematerjaliHaridusaste">Omadus: oppematerjaliHaridusaste</h3><div class="description"><p class="comment">Õppematerjal on mõeldud konkreetsele haridusastmele.</p><table class="properties"><tbody><tr><th>URI:</th><td>https://schema.edu.ee/oppematerjaliHaridusaste</td></tr><tr><th>Pealkiri:</th><td>Õppematerjali haridusaste<span class="lang">@et</span></td></tr><tr><th>Domeen:</th><td><a href="#term-Oppematerjal" title="https://schema.edu.ee/Oppematerjal">https://schema.edu.ee/Oppematerjal</a></td></tr><tr><th>Ulatus:</th><td><a href="#term-Haridusaste" title="https://schema.edu.ee/Haridusaste">https://schema.edu.ee/Haridusaste</a></td></tr><tr><th>Ülemomadus:</th><td><a href="https://schema.org/educationalAlignment">https://schema.org/educationalAlignment</a></td></tr></tbody></table><h4>Versiooniajalugu</h4><ul class="historyList"><li><span class="date">2020-02-20</span>
-              - esmakordselt lisatud
-            </li></ul></div></div><div class="property"><h3 id="term-oppematerjaliOpivaljund">Omadus: oppematerjaliOpivaljund</h3><div class="description"><p class="comment">Õppematerjal on seotud konkreetsete õpiväljundite saavutamisega. Minimaalselt on õppematerjaliga seotud üks õpiväljund.</p><table class="properties"><tbody><tr><th>URI:</th><td>https://schema.edu.ee/oppematerjaliOpivaljund</td></tr><tr><th>Pealkiri:</th><td>Õppematerjali õpiväljund<span class="lang">@et</span></td></tr><tr><th>Domeen:</th><td><a href="#term-Oppematerjal" title="https://schema.edu.ee/Oppematerjal">https://schema.edu.ee/Oppematerjal</a></td></tr><tr><th>Ulatus:</th><td><a href="#term-Opivaljund" title="https://schema.edu.ee/Opivaljund">https://schema.edu.ee/Opivaljund</a></td></tr><tr><th>Ülemomadus:</th><td><a href="https://schema.org/educationalAlignment">https://schema.org/educationalAlignment</a></td></tr></tbody></table><h4>Versiooniajalugu</h4><ul class="historyList"><li><span class="date">2020-02-14</span>
-              - esmakordselt lisatud
-            </li></ul></div></div><div class="property"><h3 id="term-oppematerjaliTeema">Omadus: oppematerjaliTeema</h3><div class="description"><p class="comment">Õppematerjal võib olla seotud teemadega.</p><table class="properties"><tbody><tr><th>URI:</th><td>https://schema.edu.ee/oppematerjaliTeema</td></tr><tr><th>Pealkiri:</th><td>Õppematerjali teema<span class="lang">@et</span></td></tr><tr><th>Domeen:</th><td><a href="#term-Oppematerjal" title="https://schema.edu.ee/Oppematerjal">https://schema.edu.ee/Oppematerjal</a></td></tr><tr><th>Ulatus:</th><td><a href="#term-Teema" title="https://schema.edu.ee/Teema">https://schema.edu.ee/Teema</a></td></tr><tr><th>Ülemomadus:</th><td><a href="https://schema.org/educationalAlignment">https://schema.org/educationalAlignment</a></td></tr></tbody></table><h4>Versiooniajalugu</h4><ul class="historyList"><li><span class="date">2020-02-20</span>
+            </li></ul></div></div><div class="property"><h3 id="term-seotudTeema">Omadus: seotudTeema</h3><div class="description"><p class="comment">Õpiväljund ei pea olema ühegi teemaga, kuid teema raames käsitletakse vähemalt ühte õpiväljundit. Õppematerjal võib olla seotud teemadega.</p><table class="properties"><tbody><tr><th>URI:</th><td>https://schema.edu.ee/seotudTeema</td></tr><tr><th>Pealkiri:</th><td>Teema, mille raames õpiväljundit või teemat käsitletakse<span class="lang">@et</span></td></tr><tr><th>Domeen:</th><td>Ühend, mis sisaldab     
+				
+					<a href="#Opivaljund">#Opivaljund</a>
+					 või <a href="#Oppematerjal">#Oppematerjal</a>
+				
+			</td></tr><tr><th>Ulatus:</th><td><a href="#term-Teema" title="https://schema.edu.ee/Teema">https://schema.edu.ee/Teema</a></td></tr></tbody></table><h4>Versiooniajalugu</h4><ul class="historyList"><li><span class="date">2020-02-14</span>
               - esmakordselt lisatud
             </li></ul></div></div><div class="property"><h3 id="term-testKoosneb">Omadus: testKoosneb</h3><div class="description"><p class="comment">Test koosneb vähemalt ühest ülesandest.</p><table class="properties"><tbody><tr><th>URI:</th><td>https://schema.edu.ee/testKoosneb</td></tr><tr><th>Pealkiri:</th><td>Test koosneb ülesannetest<span class="lang">@et</span></td></tr><tr><th>Domeen:</th><td><a href="#term-Test" title="https://schema.edu.ee/Test">https://schema.edu.ee/Test</a></td></tr><tr><th>Ulatus:</th><td><a href="#term-Ulesanne" title="https://schema.edu.ee/Ulesanne">https://schema.edu.ee/Ulesanne</a></td></tr></tbody></table><h4>Versiooniajalugu</h4><ul class="historyList"><li><span class="date">2020-02-14</span>
               - esmakordselt lisatud
